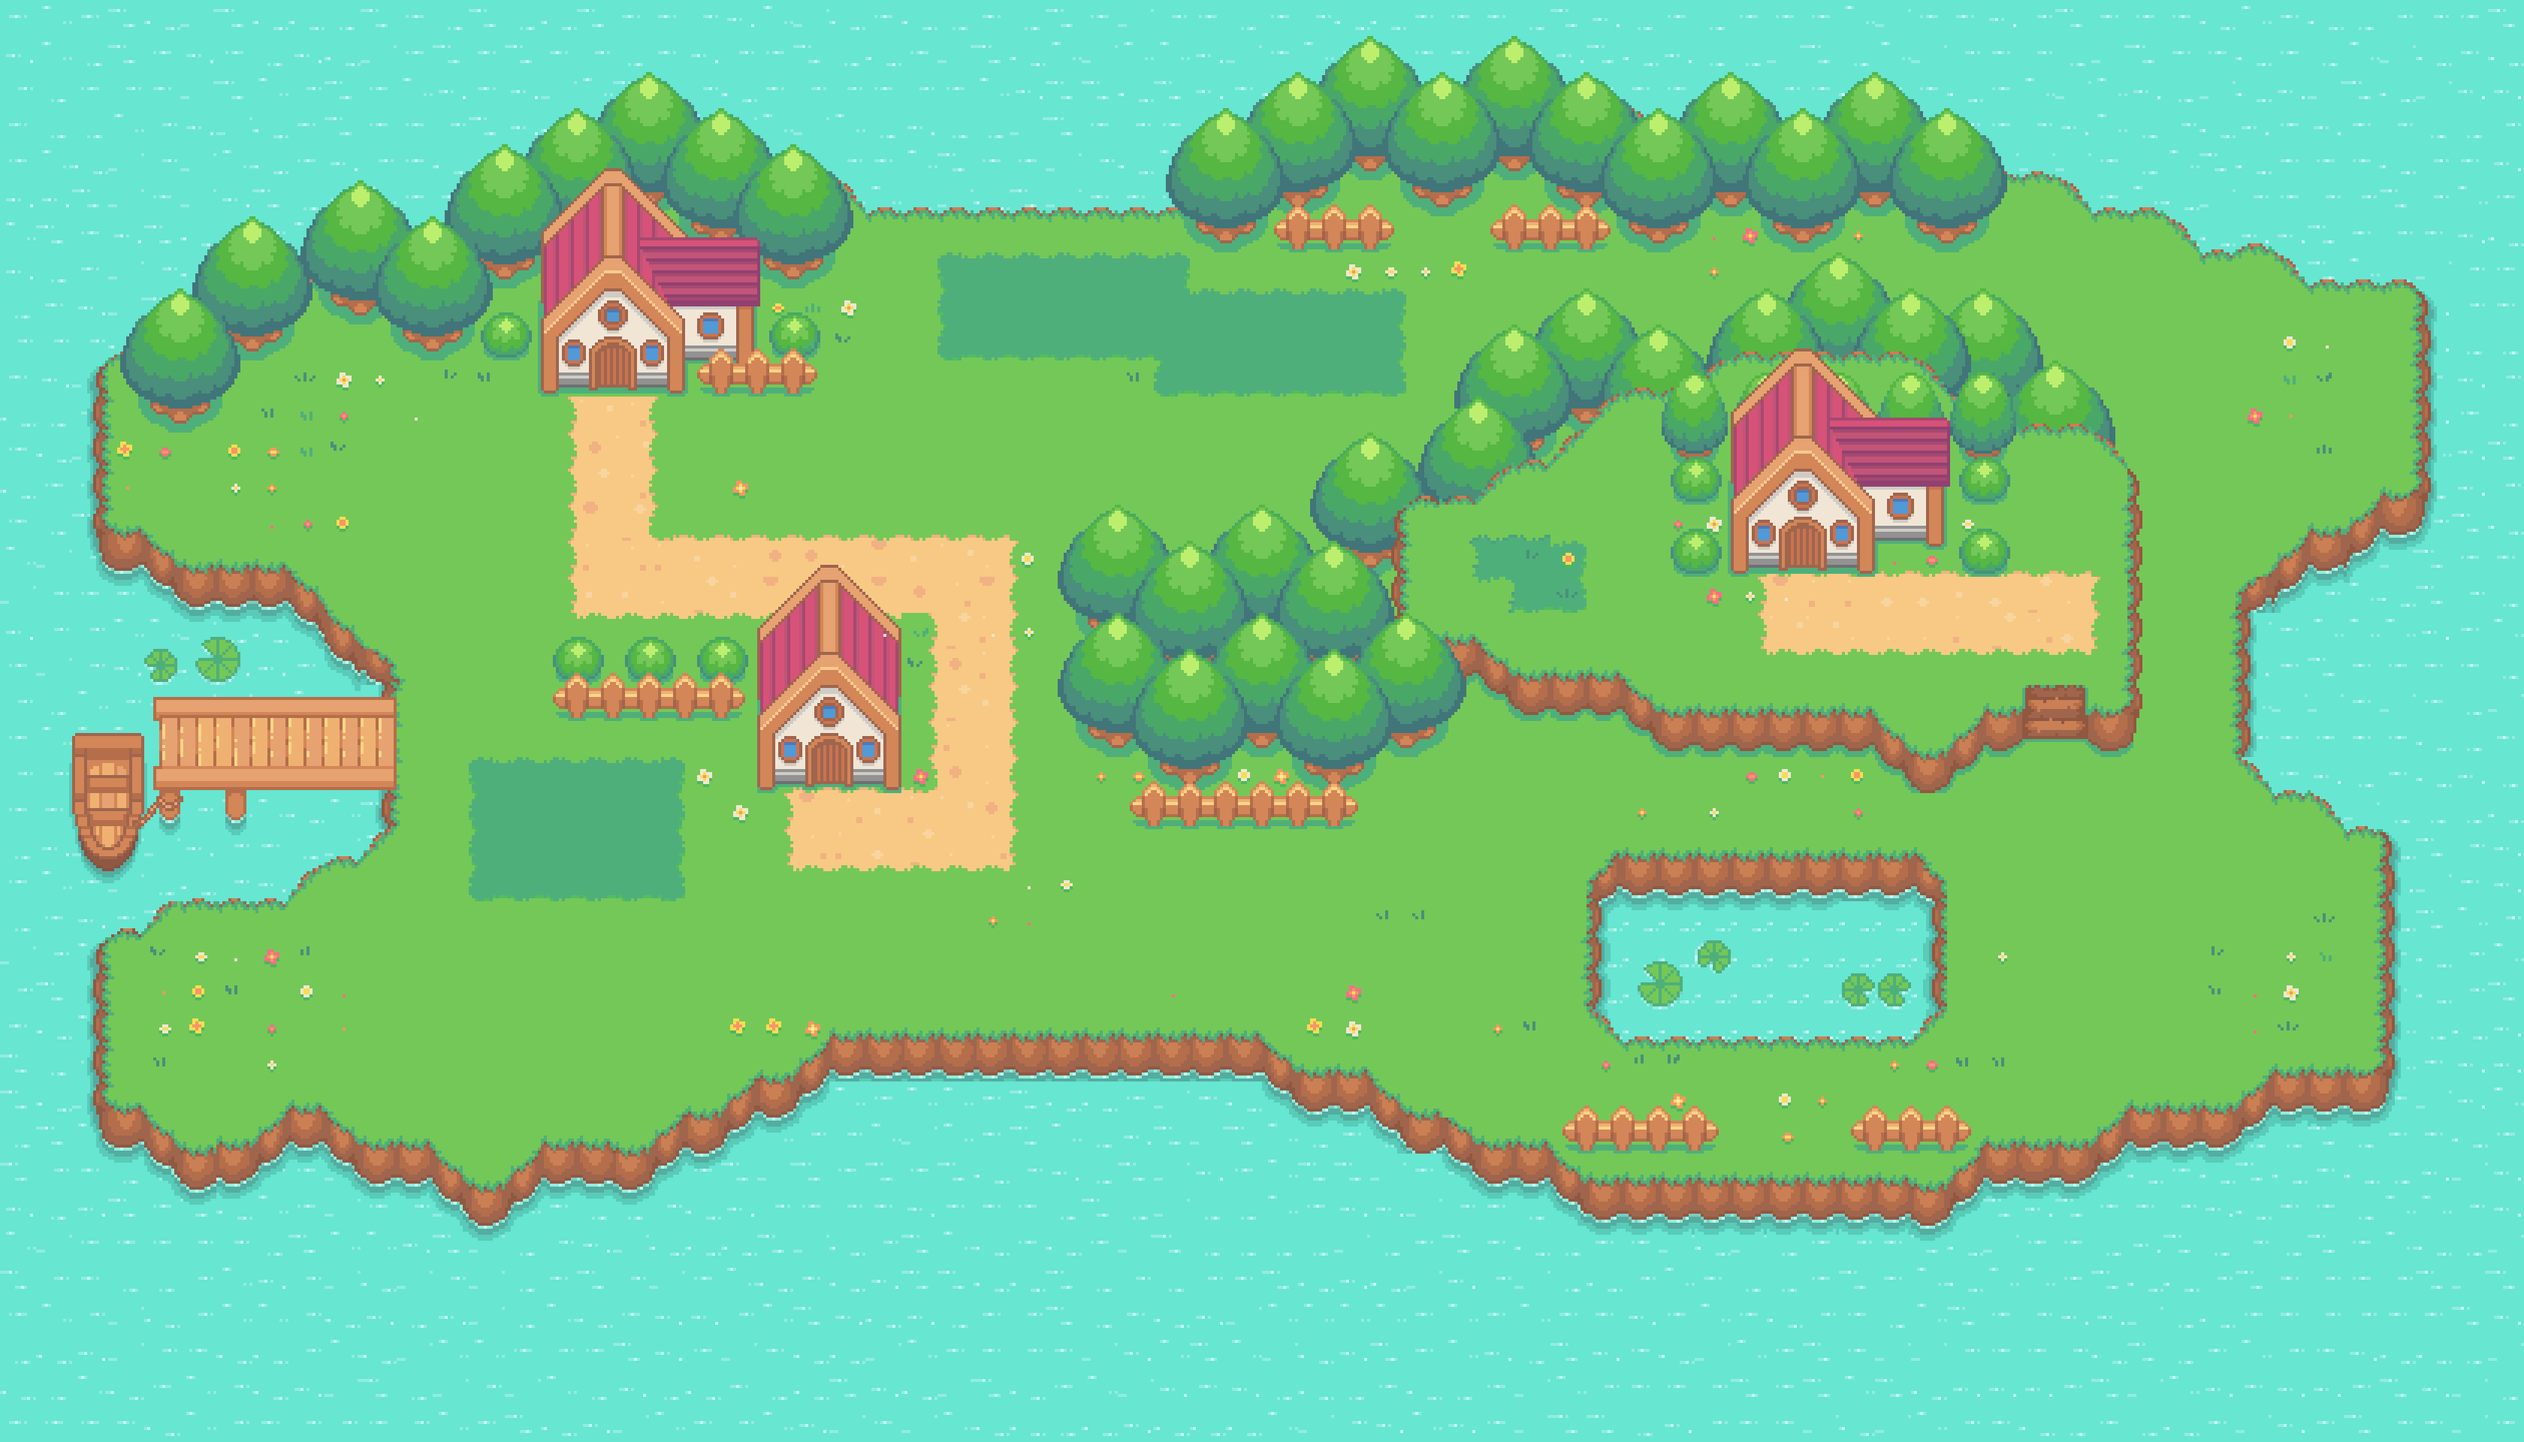
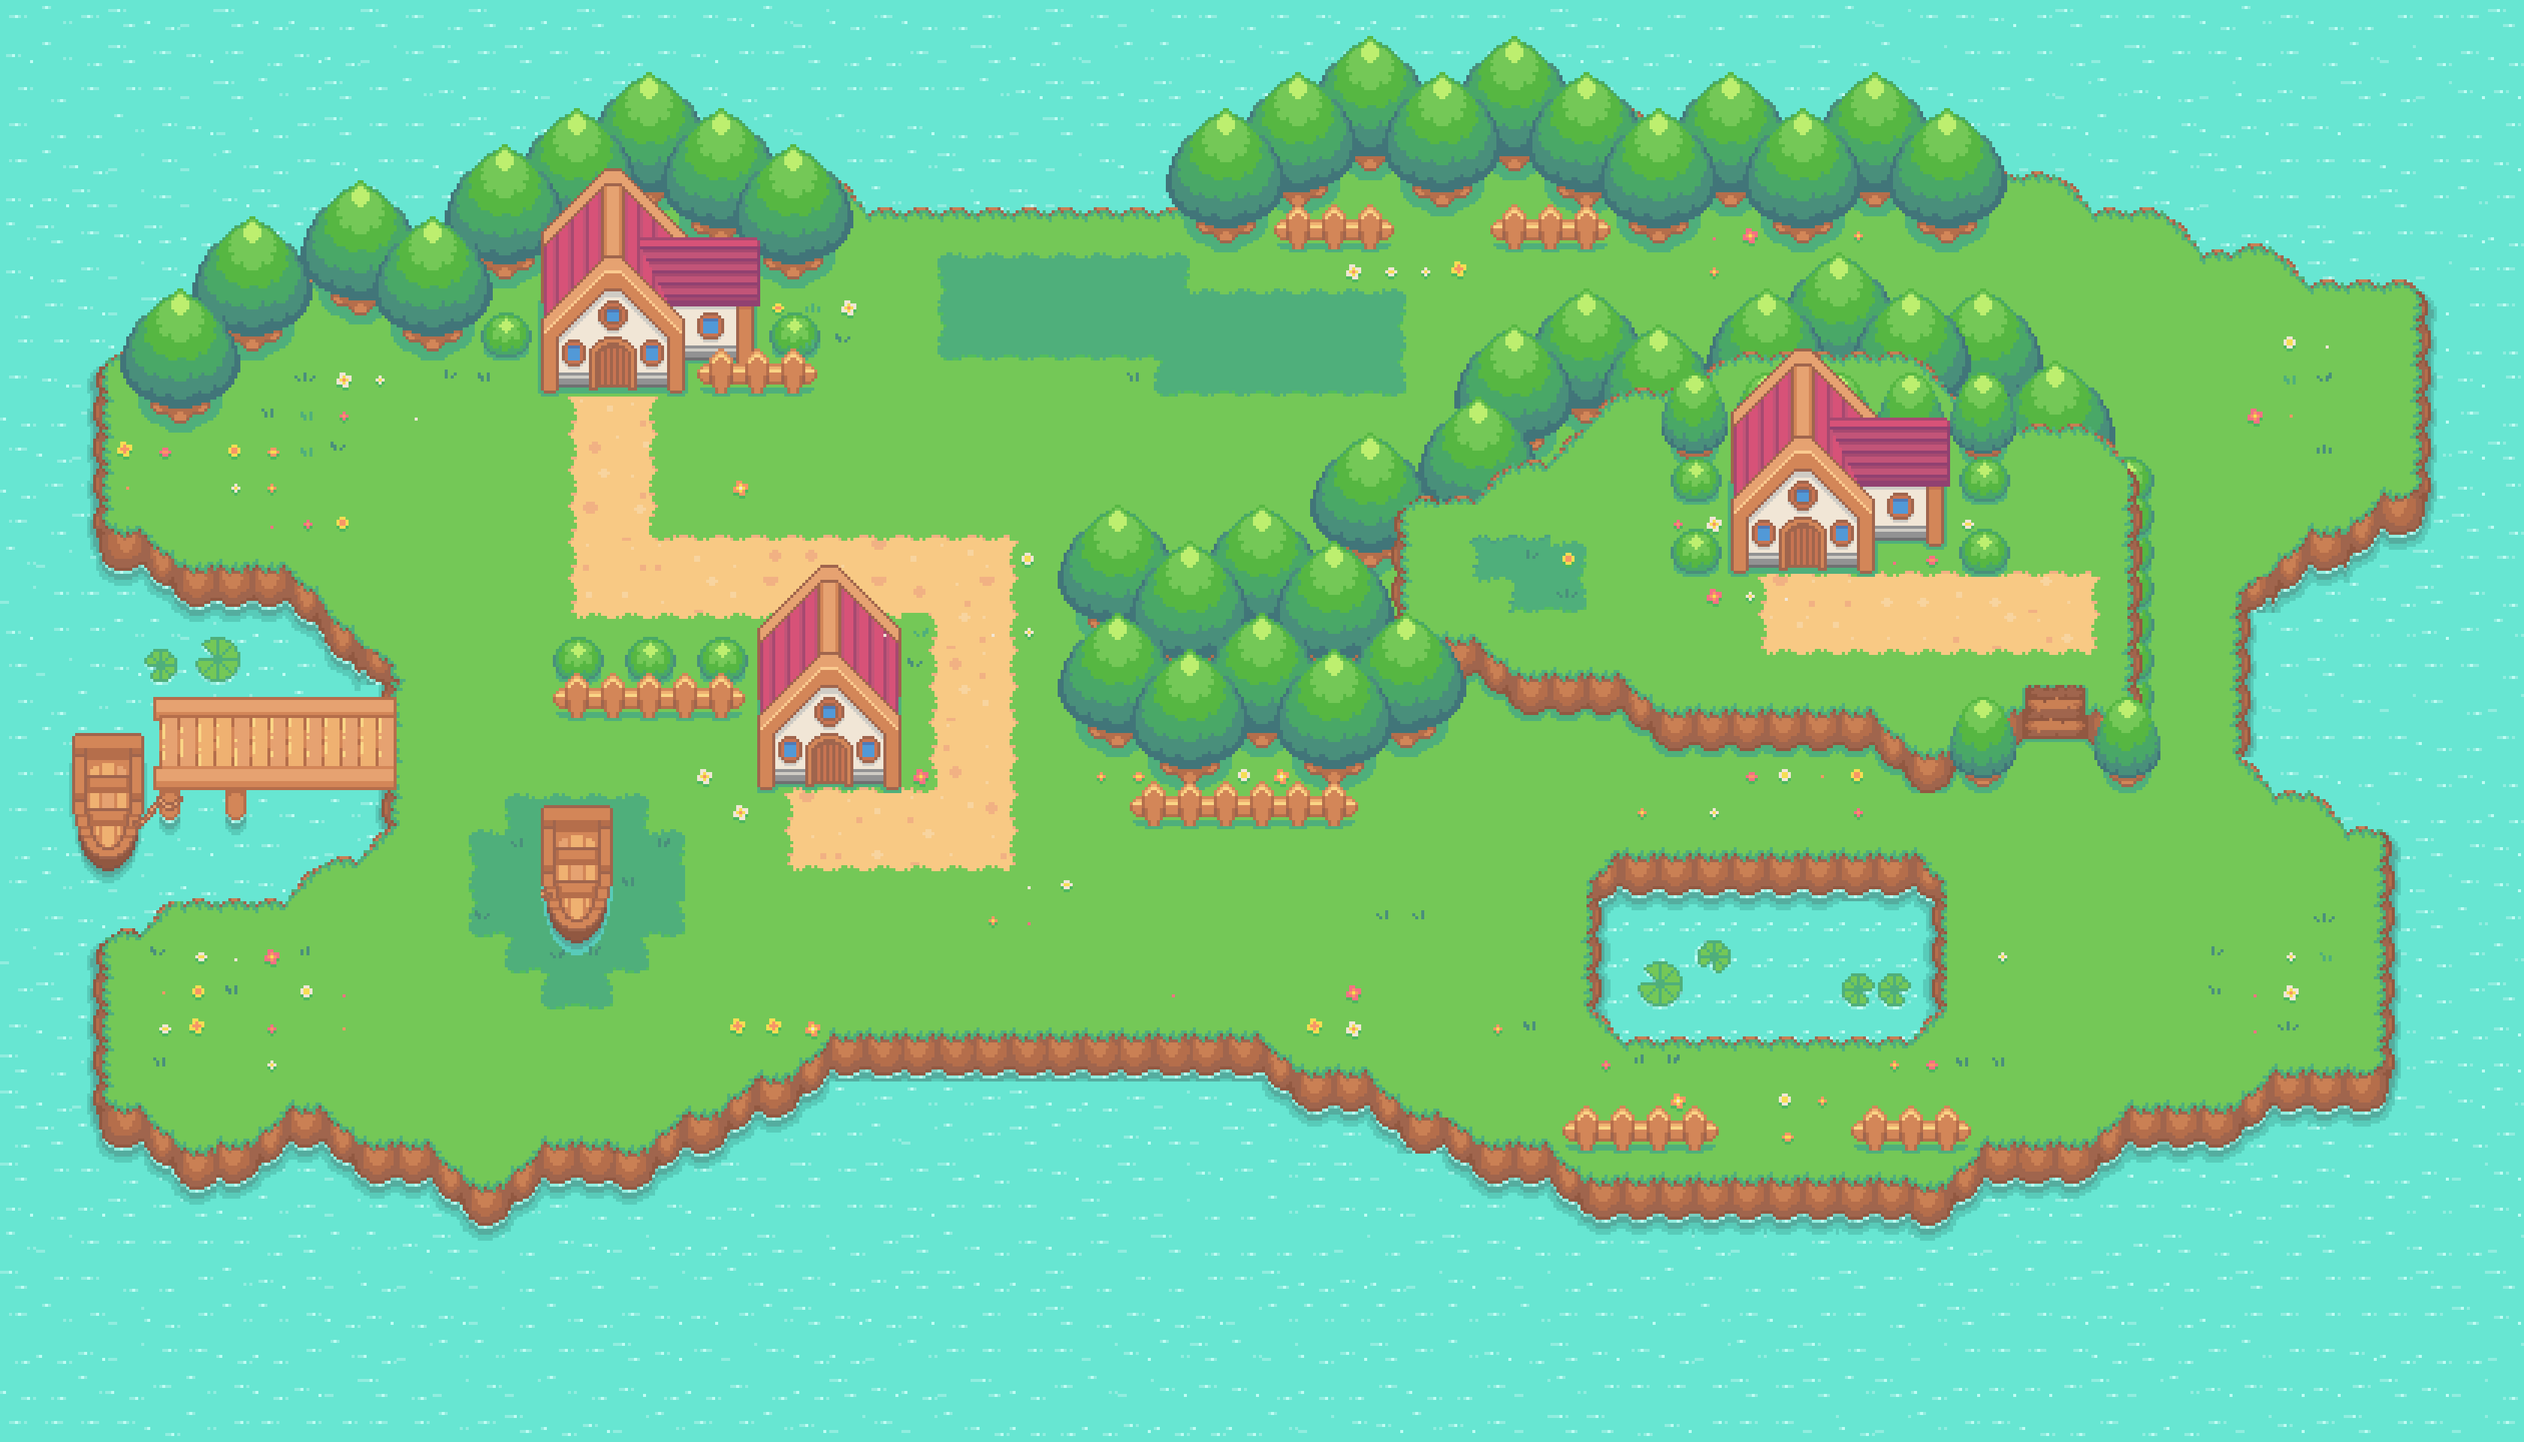
Fixed map design to better match collision barriers
Fixed tiles in wrong layers and fixed design to the right of plateau

Changed region(s): [[0.1875, 0.5, 0.2812, 0.7188], [0.75, 0.3125, 0.875, 0.5625]]

diff --git a/Mob game/data/collisions.js b/Mob game/data/collisions.js
@@ -10,7 +10,7 @@ const collisions = [0, 0, 0, 0, 0, 0, 0, 0, 0, 0, 0, 0, 0, 0, 0, 0, 0, 0, 0, 0, 
     0, 0, 0, 0, 0, 0, 1025, 1025, 0, 0, 0, 1025, 1025, 1025, 1025, 0, 0, 0, 0, 0, 0, 0, 1025, 0, 0, 0, 0, 0, 0, 0, 0, 0, 0, 0, 0, 0, 0, 0, 0, 0, 0, 0, 0, 0, 0, 0, 0, 0, 1025, 1025, 1025, 1025, 1025, 1025, 1025, 0, 0, 0, 0, 0, 0, 0, 0, 0, 0, 0, 0, 1025, 0, 0,
     0, 0, 1025, 1025, 0, 0, 1025, 0, 0, 0, 0, 0, 0, 0, 0, 1025, 1025, 1025, 1025, 1025, 1025, 1025, 1025, 0, 0, 0, 0, 0, 0, 0, 0, 0, 0, 0, 0, 0, 0, 0, 0, 0, 0, 0, 1025, 1025, 1025, 1025, 1025, 1025, 1025, 1025, 0, 0, 0, 0, 0, 1025, 0, 0, 0, 0, 0, 0, 0, 0, 0, 0, 0, 1025, 0, 0,
     0, 0, 1025, 0, 1025, 1025, 0, 0, 0, 0, 0, 0, 0, 0, 0, 0, 0, 0, 0, 0, 0, 0, 0, 0, 0, 0, 0, 0, 0, 0, 0, 0, 0, 0, 0, 0, 0, 0, 0, 0, 0, 0, 1025, 1025, 1025, 0, 1025, 0, 0, 0, 0, 0, 0, 0, 0, 0, 1025, 1025, 0, 0, 0, 0, 0, 0, 0, 0, 0, 1025, 0, 0,
-    0, 0, 1025, 0, 0, 0, 0, 0, 0, 0, 0, 0, 0, 0, 0, 0, 0, 0, 0, 0, 0, 0, 0, 0, 0, 0, 0, 0, 0, 0, 0, 0, 0, 0, 0, 0, 0, 0, 0, 0, 0, 1025, 1025, 0, 0, 0, 1025, 0, 0, 0, 0, 0, 0, 0, 0, 1025, 0, 0, 1025, 1025, 0, 0, 0, 0, 0, 0, 0, 1025, 0, 0,
+    0, 0, 1025, 0, 0, 0, 0, 0, 0, 0, 0, 0, 0, 0, 0, 0, 0, 0, 0, 0, 0, 0, 0, 0, 0, 0, 0, 0, 0, 0, 0, 0, 0, 0, 0, 0, 0, 0, 0, 0, 0, 1025, 1025, 0, 0, 0, 1025, 0, 0, 0, 0, 0, 0, 0, 0, 1025, 0, 0, 1025, 0, 0, 0, 0, 0, 0, 0, 0, 1025, 0, 0,
     0, 0, 1025, 0, 0, 0, 0, 0, 0, 0, 0, 0, 0, 0, 0, 0, 0, 0, 0, 0, 0, 0, 0, 0, 0, 0, 0, 0, 0, 0, 0, 0, 0, 0, 0, 0, 0, 1025, 1025, 1025, 1025, 0, 0, 0, 0, 0, 1025, 0, 0, 0, 0, 0, 0, 0, 0, 1025, 0, 0, 0, 1025, 0, 0, 0, 0, 0, 0, 0, 1025, 0, 0,
     0, 0, 1025, 0, 0, 0, 0, 0, 0, 0, 0, 0, 0, 0, 0, 0, 0, 0, 0, 0, 0, 0, 0, 0, 0, 0, 0, 0, 0, 0, 0, 0, 0, 0, 0, 0, 0, 1025, 1025, 0, 0, 0, 0, 0, 0, 0, 1025, 0, 0, 0, 0, 0, 1025, 1025, 0, 1025, 0, 0, 0, 1025, 0, 0, 0, 0, 0, 1025, 1025, 0, 0, 0,
     0, 0, 1025, 1025, 1025, 0, 0, 0, 0, 0, 0, 0, 0, 0, 0, 0, 0, 0, 0, 0, 0, 0, 0, 0, 0, 0, 0, 0, 0, 0, 1025, 1025, 1025, 1025, 1025, 1025, 1025, 0, 1025, 0, 0, 0, 0, 0, 0, 0, 1025, 1025, 1025, 1025, 1025, 1025, 0, 0, 1025, 1025, 0, 0, 0, 1025, 0, 0, 0, 1025, 1025, 0, 0, 0, 0, 0,
@@ -19,11 +19,11 @@ const collisions = [0, 0, 0, 0, 0, 0, 0, 0, 0, 0, 0, 0, 0, 0, 0, 0, 0, 0, 0, 0, 
     0, 0, 0, 1025, 1025, 1025, 1025, 1025, 1025, 1025, 1025, 0, 0, 0, 0, 1025, 1025, 1025, 1025, 1025, 1025, 0, 0, 0, 1025, 0, 0, 0, 0, 0, 1025, 0, 0, 0, 0, 0, 0, 0, 0, 1025, 1025, 1025, 0, 0, 0, 0, 0, 0, 0, 0, 0, 0, 0, 0, 0, 0, 0, 0, 0, 1025, 0, 0, 1025, 0, 0, 0, 0, 0, 0, 0,
     0, 0, 0, 1025, 0, 0, 0, 0, 0, 0, 0, 0, 0, 0, 0, 1025, 1025, 1025, 1025, 1025, 1025, 1025, 0, 0, 1025, 0, 0, 0, 0, 0, 1025, 0, 0, 0, 0, 0, 0, 0, 0, 0, 1025, 1025, 1025, 1025, 1025, 1025, 0, 0, 0, 0, 0, 0, 0, 0, 0, 0, 0, 0, 0, 1025, 0, 0, 1025, 0, 0, 0, 0, 0, 0, 0,
     0, 0, 0, 1025, 0, 0, 0, 0, 0, 0, 0, 0, 0, 0, 0, 0, 0, 0, 0, 0, 0, 1025, 0, 0, 1025, 0, 0, 0, 0, 0, 1025, 1025, 0, 0, 0, 0, 0, 0, 1025, 1025, 0, 0, 0, 0, 0, 1025, 1025, 1025, 1025, 1025, 1025, 1025, 1025, 0, 1025, 1025, 0, 0, 1025, 1025, 0, 0, 1025, 0, 0, 0, 0, 0, 0, 0,
-    0, 0, 0, 1025, 0, 0, 0, 0, 0, 0, 0, 0, 0, 0, 0, 0, 0, 0, 0, 0, 0, 1025, 1025, 1025, 1025, 0, 0, 0, 0, 0, 0, 1025, 0, 0, 0, 0, 0, 1025, 0, 0, 0, 0, 0, 0, 0, 0, 0, 0, 0, 0, 0, 0, 1025, 1025, 1025, 0, 0, 0, 0, 0, 0, 0, 0, 1025, 1025, 0, 0, 0, 0, 0,
-    0, 0, 0, 1025, 1025, 1025, 1025, 1025, 1025, 1025, 1025, 0, 0, 0, 0, 0, 0, 0, 0, 0, 0, 0, 0, 0, 0, 0, 0, 0, 0, 0, 0, 1025, 1025, 1025, 1025, 1025, 1025, 1025, 0, 0, 0, 0, 0, 0, 0, 0, 0, 0, 0, 0, 0, 0, 0, 0, 0, 0, 0, 0, 0, 0, 0, 0, 0, 0, 0, 1025, 0, 0, 0, 0,
-    0, 0, 0, 0, 0, 0, 0, 0, 1025, 1025, 0, 0, 0, 0, 0, 0, 0, 0, 0, 0, 0, 0, 0, 0, 0, 0, 0, 0, 0, 0, 0, 0, 0, 0, 0, 0, 0, 0, 0, 0, 0, 0, 0, 0, 0, 0, 0, 0, 0, 0, 0, 0, 0, 0, 0, 0, 0, 0, 0, 0, 0, 0, 0, 0, 0, 0, 1025, 0, 0, 0,
-    0, 0, 0, 0, 1025, 1025, 1025, 1025, 0, 0, 0, 0, 0, 0, 0, 0, 0, 0, 0, 0, 0, 0, 0, 0, 0, 0, 0, 0, 0, 0, 0, 0, 0, 0, 0, 0, 0, 0, 0, 0, 0, 0, 0, 0, 1025, 1025, 1025, 1025, 1025, 1025, 1025, 1025, 1025, 1025, 0, 0, 0, 0, 0, 0, 0, 0, 0, 0, 0, 0, 1025, 0, 0, 0,
-    0, 0, 0, 1025, 0, 0, 0, 0, 0, 0, 0, 0, 0, 0, 0, 0, 0, 0, 0, 0, 0, 0, 0, 0, 0, 0, 0, 0, 0, 0, 0, 0, 0, 0, 0, 0, 0, 0, 0, 0, 0, 0, 0, 0, 1025, 0, 0, 0, 0, 0, 0, 0, 0, 1025, 0, 0, 0, 0, 0, 0, 0, 0, 0, 0, 0, 0, 1025, 0, 0, 0,
+    0, 0, 0, 1025, 0, 0, 0, 0, 0, 0, 0, 0, 0, 0, 0, 0, 0, 0, 0, 0, 0, 1025, 1025, 1025, 1025, 0, 0, 0, 0, 0, 0, 1025, 0, 0, 0, 0, 0, 1025, 0, 0, 0, 0, 0, 0, 0, 0, 0, 0, 0, 0, 0, 0, 1025, 1025, 1025, 1025, 0, 0, 1025, 1025, 0, 0, 0, 1025, 1025, 0, 0, 0, 0, 0,
+    0, 0, 0, 1025, 1025, 1025, 1025, 1025, 1025, 1025, 1025, 0, 0, 0, 0, 1025, 1025, 0, 0, 0, 0, 0, 0, 0, 0, 0, 0, 0, 0, 0, 0, 1025, 1025, 1025, 1025, 1025, 1025, 1025, 0, 0, 0, 0, 0, 0, 0, 0, 0, 0, 0, 0, 0, 0, 0, 0, 0, 0, 0, 0, 0, 0, 0, 0, 0, 0, 0, 1025, 0, 0, 0, 0,
+    0, 0, 0, 0, 0, 0, 0, 0, 1025, 1025, 0, 0, 0, 0, 0, 1025, 1025, 0, 0, 0, 0, 0, 0, 0, 0, 0, 0, 0, 0, 0, 0, 0, 0, 0, 0, 0, 0, 0, 0, 0, 0, 0, 0, 0, 0, 0, 0, 0, 0, 0, 0, 0, 0, 0, 0, 0, 0, 0, 0, 0, 0, 0, 0, 0, 0, 0, 1025, 0, 0, 0,
+    0, 0, 0, 0, 1025, 1025, 1025, 1025, 0, 0, 0, 0, 0, 0, 0, 1025, 1025, 0, 0, 0, 0, 0, 0, 0, 0, 0, 0, 0, 0, 0, 0, 0, 0, 0, 0, 0, 0, 0, 0, 0, 0, 0, 0, 0, 1025, 1025, 1025, 1025, 1025, 1025, 1025, 1025, 1025, 1025, 0, 0, 0, 0, 0, 0, 0, 0, 0, 0, 0, 0, 1025, 0, 0, 0,
+    0, 0, 0, 1025, 0, 0, 0, 0, 0, 0, 0, 0, 0, 0, 0, 1025, 1025, 0, 0, 0, 0, 0, 0, 0, 0, 0, 0, 0, 0, 0, 0, 0, 0, 0, 0, 0, 0, 0, 0, 0, 0, 0, 0, 0, 1025, 0, 0, 0, 0, 0, 0, 0, 0, 1025, 0, 0, 0, 0, 0, 0, 0, 0, 0, 0, 0, 0, 1025, 0, 0, 0,
     0, 0, 1025, 0, 0, 0, 0, 0, 0, 0, 0, 0, 0, 0, 0, 0, 0, 0, 0, 0, 0, 0, 0, 0, 0, 0, 0, 0, 0, 0, 0, 0, 0, 0, 0, 0, 0, 0, 0, 0, 0, 0, 0, 0, 1025, 0, 0, 0, 0, 0, 0, 0, 0, 1025, 0, 0, 0, 0, 0, 0, 0, 0, 0, 0, 0, 0, 1025, 0, 0, 0,
     0, 0, 1025, 0, 0, 0, 0, 0, 0, 0, 0, 0, 0, 0, 0, 0, 0, 0, 0, 0, 0, 0, 0, 0, 0, 0, 0, 0, 0, 0, 0, 0, 0, 0, 0, 0, 0, 0, 0, 0, 0, 0, 0, 0, 1025, 0, 0, 0, 0, 0, 0, 0, 0, 1025, 0, 0, 0, 0, 0, 0, 0, 0, 0, 0, 0, 0, 1025, 0, 0, 0,
     0, 0, 1025, 0, 0, 0, 0, 0, 0, 0, 0, 0, 0, 0, 0, 0, 0, 0, 0, 0, 0, 0, 0, 0, 0, 0, 0, 0, 0, 0, 0, 0, 0, 0, 0, 0, 0, 0, 0, 0, 0, 0, 0, 0, 0, 1025, 1025, 1025, 1025, 1025, 1025, 1025, 1025, 0, 0, 0, 0, 0, 0, 0, 0, 0, 0, 0, 0, 0, 1025, 0, 0, 0,

diff --git a/Mob game/index.js b/Mob game/index.js
@@ -139,7 +139,7 @@ function animate() {
                     }}
                 })
             ) {
-                console.log("colliding")
+                // console.log("colliding")
                 moving = false
                 break
             }
@@ -160,7 +160,7 @@ function animate() {
                     }}
                 })
             ) {
-                console.log("colliding")
+                // console.log("colliding")
                 moving = false
                 break
             }
@@ -181,7 +181,7 @@ function animate() {
                     }}
                 })
             ) {
-                console.log("colliding")
+                // console.log("colliding")
                 moving = false
                 break
             }
@@ -202,7 +202,7 @@ function animate() {
                     }}
                 })
             ) {
-                console.log("colliding")
+                // console.log("colliding")
                 moving = false
                 break
             }
